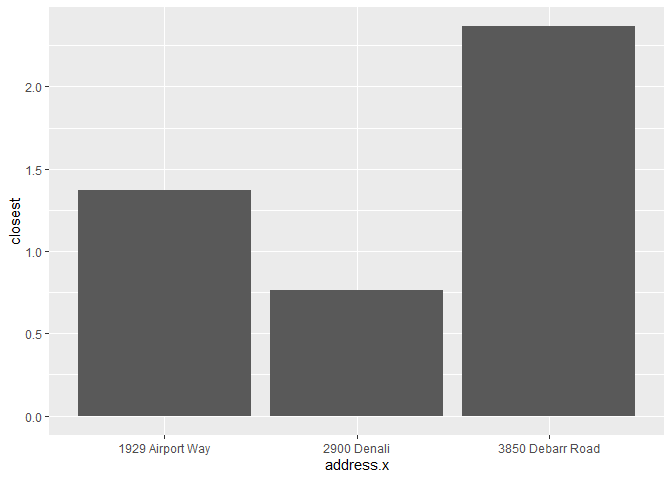
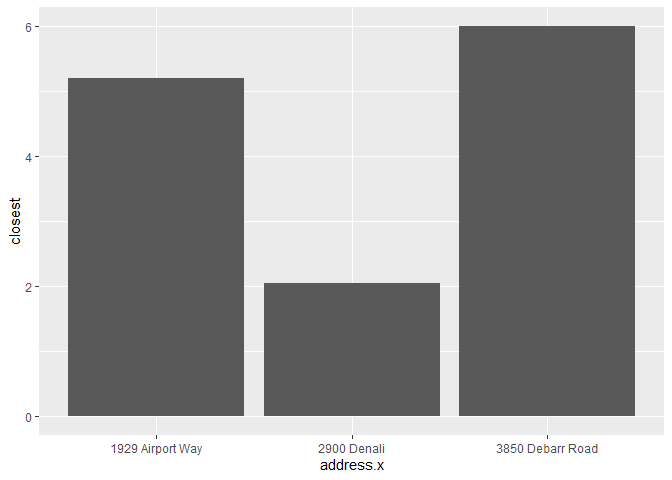
1

diff --git a/lab-05.md b/lab-05.md
@@ -144,7 +144,7 @@ haversine <- function(long1, lat1, long2, lat2, round = 3) {
 
 ``` r
 dn_lq_ak <- dn_lq_ak %>%
-  mutate(distance = haversine(longitude.x,latitude.x, longitude.x, latitude.y))
+  mutate(distance = haversine(longitude.x,latitude.x, longitude.y, latitude.y))
 
 print(dn_lq_ak)
 ```
@@ -174,9 +174,9 @@ print(dn_lq_ak_mindist)
     ## # A tibble: 3 x 2
     ##   address.x        closest
     ##   <chr>              <dbl>
-    ## 1 1929 Airport Way   1.37 
-    ## 2 2900 Denali        0.764
-    ## 3 3850 Debarr Road   2.37
+    ## 1 1929 Airport Way    5.20
+    ## 2 2900 Denali         2.04
+    ## 3 3850 Debarr Road    6.00
 
 ``` r
 dn_lq_ak_mindist %>%
@@ -262,7 +262,7 @@ dn_lq_NC<-full_join(dn_NC, lq_NC, by=
                       "state")
 
 dn_lq_NC <- dn_lq_NC %>%
-  mutate(distance = haversine(longitude.x,latitude.x, longitude.x, latitude.y))
+  mutate(distance = haversine(longitude.x,latitude.x, longitude.y, latitude.y))
 
 
 dn_lq_NC_mindist <-dn_lq_NC %>%
@@ -274,16 +274,16 @@ dn_lq_NC_mindist <-dn_lq_NC %>%
     ## # A tibble: 28 x 2
     ##    address.x                 closest
     ##    <chr>                       <dbl>
-    ##  1 1 Regent Park Boulevard    12.4  
-    ##  2 101 Wintergreen Dr         56.8  
-    ##  3 103 Sedgehill Dr            0.255
-    ##  4 1043 Jimmie Kerr Road       0.896
-    ##  5 1201 S College Road       107.   
-    ##  6 1209 Burkemount Avenue      1.97 
-    ##  7 1493 Us Hwy 74-A Bypass    10.2  
-    ##  8 1524 Dabney Dr             13.0  
-    ##  9 1550 Four Seasons          10.2  
-    ## 10 1800 Princeton-Kenly Road  14.0  
+    ##  1 1 Regent Park Boulevard     108. 
+    ##  2 101 Wintergreen Dr          120. 
+    ##  3 103 Sedgehill Dr             26.7
+    ##  4 1043 Jimmie Kerr Road        36.1
+    ##  5 1201 S College Road         188. 
+    ##  6 1209 Burkemount Avenue       39.1
+    ##  7 1493 Us Hwy 74-A Bypass      70.1
+    ##  8 1524 Dabney Dr               59.5
+    ##  9 1550 Four Seasons           115. 
+    ## 10 1800 Princeton-Kenly Road    55.9
     ## # ... with 18 more rows
 
 ``` r
@@ -372,7 +372,7 @@ dn_lq_TX<-full_join(dn_TX, lq_TX, by=
                       "state")
 
 dn_lq_TX <- dn_lq_TX %>%
-  mutate(distance = haversine(longitude.x,latitude.x, longitude.x, latitude.y))
+  mutate(distance = haversine(longitude.x,latitude.x, longitude.y, latitude.y))
 
 
 dn_lq_TX_mindist <-dn_lq_TX %>%
@@ -384,16 +384,16 @@ dn_lq_TX_mindist <-dn_lq_TX %>%
     ## # A tibble: 200 x 2
     ##    address.x             closest
     ##    <chr>                   <dbl>
-    ##  1 100 Cottonwood          0.61 
-    ##  2 100 E Pinehurst         0.494
-    ##  3 100 Us Highway 79 S     5.62 
-    ##  4 101 N Fm 707            0.867
-    ##  5 1011 Beltway Parkway    1.74 
-    ##  6 1015 Spur 350 West      0.043
-    ##  7 1015 West Main St       0.164
-    ##  8 10367 Highway 59        2.56 
-    ##  9 10433 N Central Expwy   0.616
-    ## 10 105 W 42nd St           1.02 
+    ##  1 100 Cottonwood         33.6  
+    ##  2 100 E Pinehurst         1.39 
+    ##  3 100 Us Highway 79 S    33.9  
+    ##  4 101 N Fm 707           10.3  
+    ##  5 1011 Beltway Parkway   14.0  
+    ##  6 1015 Spur 350 West      1.74 
+    ##  7 1015 West Main St       1.10 
+    ##  8 10367 Highway 59       37.6  
+    ##  9 10433 N Central Expwy   0.618
+    ## 10 105 W 42nd St           6.88 
     ## # ... with 190 more rows
 
 Visulization
@@ -482,7 +482,7 @@ dn_lq_OH<-full_join(dn_OH, lq_OH, by=
                       "state")
 
 dn_lq_OH <- dn_lq_OH %>%
-  mutate(distance = haversine(longitude.x,latitude.x, longitude.x, latitude.y))
+  mutate(distance = haversine(longitude.x,latitude.x, longitude.y, latitude.y))
 
 
 dn_lq_OH_mindist <-dn_lq_OH %>%
@@ -494,16 +494,16 @@ dn_lq_OH_mindist <-dn_lq_OH %>%
     ## # A tibble: 44 x 2
     ##    address.x                closest
     ##    <chr>                      <dbl>
-    ##  1 10 Airport Rd              0.323
-    ##  2 10480 Baltimore            0.19 
-    ##  3 1050 Mt Vernon Ave        12.6  
-    ##  4 1051 Interstate Court     22.5  
-    ##  5 1122 Buck Road             4.17 
-    ##  6 1136 South Main Street     3.65 
-    ##  7 1256 W High Extension     22.3  
-    ##  8 154 Boardman-Canfield Rd  18.5  
-    ##  9 1681 Home Ave             20.3  
-    ## 10 1750 Cedar Street          3.37 
+    ##  1 10 Airport Rd              79.7 
+    ##  2 10480 Baltimore            19.7 
+    ##  3 1050 Mt Vernon Ave         51.6 
+    ##  4 1051 Interstate Court      54.7 
+    ##  5 1122 Buck Road              5.44
+    ##  6 1136 South Main Street     11.1 
+    ##  7 1256 W High Extension      40.8 
+    ##  8 154 Boardman-Canfield Rd   65.7 
+    ##  9 1681 Home Ave              20.5 
+    ## 10 1750 Cedar Street          38.3 
     ## # ... with 34 more rows
 
 ``` r
